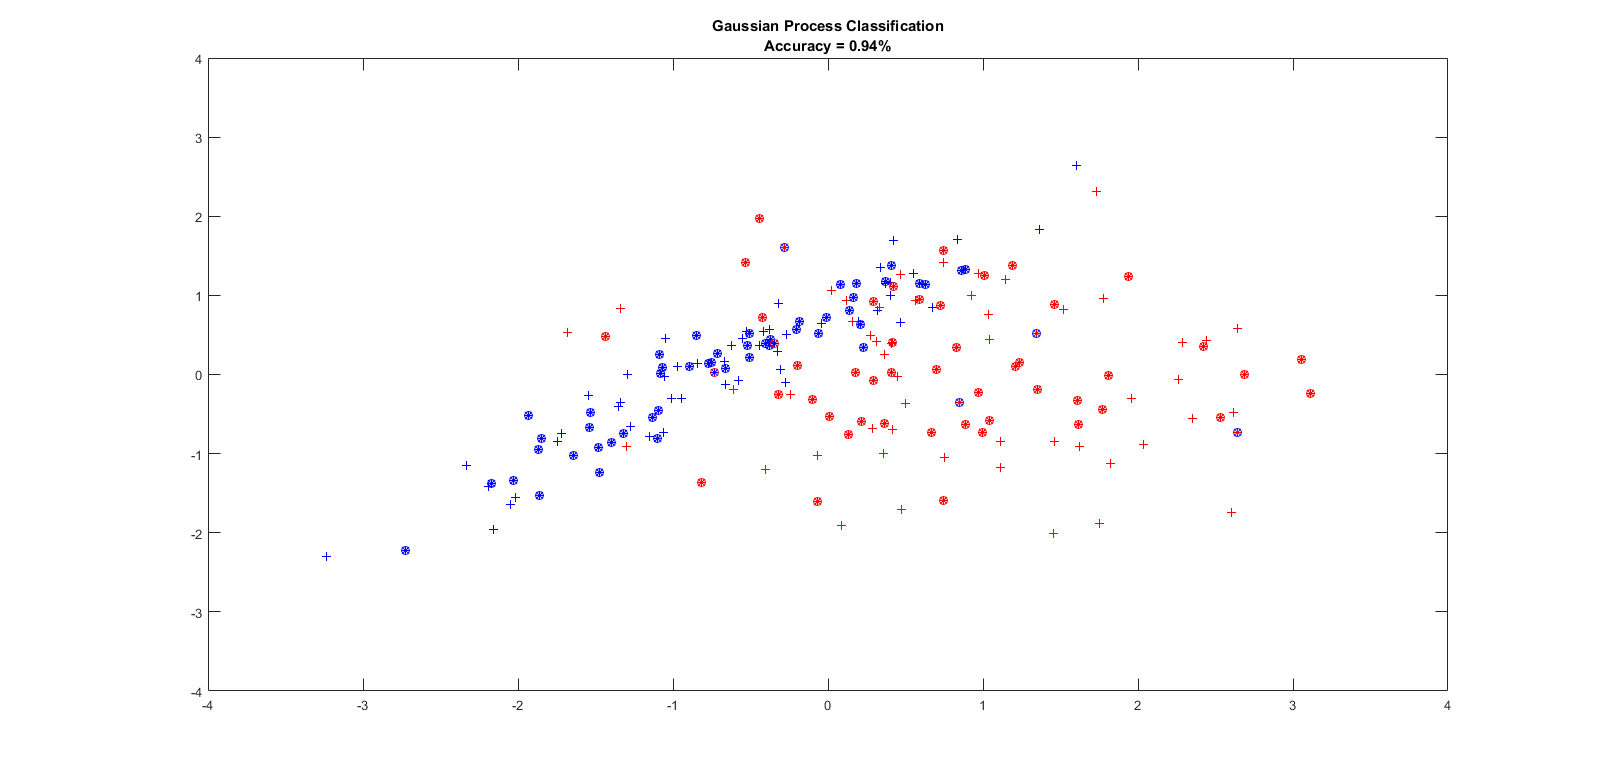
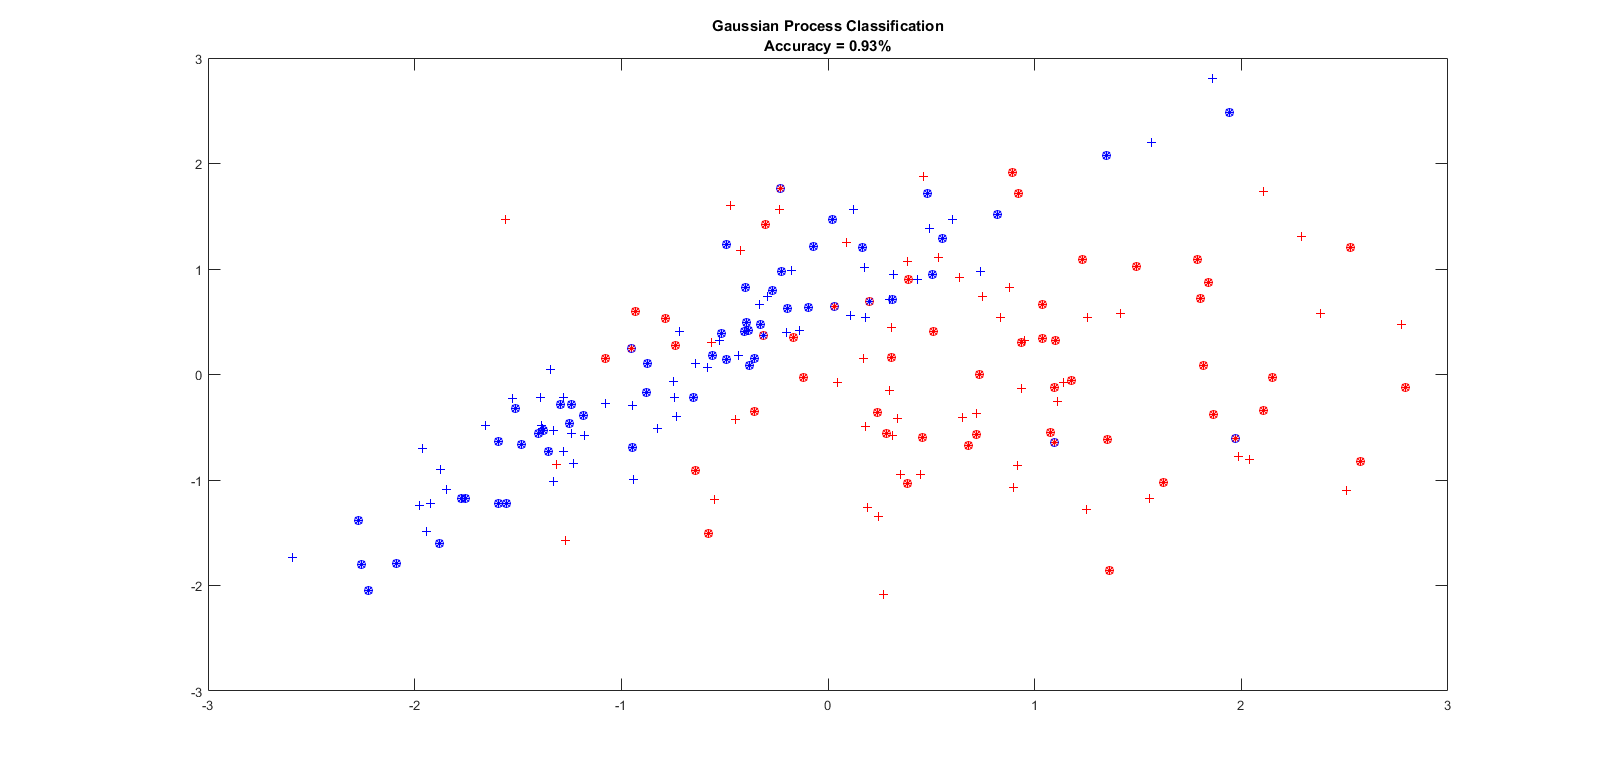
axis

diff --git a/ML2/GPC.m b/ML2/GPC.m
@@ -115,7 +115,7 @@ plot(x_test(y_test==1,1), x_test(y_test==1,2), 'b*', x_test(y_test==-1,1), x_tes
  
 plot(x_test(y_test_mean>=c1_thresh,1), x_test(y_test_mean>=c1_thresh,2), 'bO',...
     x_test(y_test_mean<c2_thresh,1), x_test(y_test_mean<c2_thresh,2), 'rO');
-axis([-4 4 -4 4]);title(sprintf('Gaussian Process Classification\nAccuracy = %2.2f%%',acc/100))
+axis([-3 3 -3 3]);title(sprintf('Gaussian Process Classification\nAccuracy = %2.2f%%',acc/100))
 
 %% computation of the covariance function
 function K = get_kernel(X1,X2,sigmaf,l,sigman)
